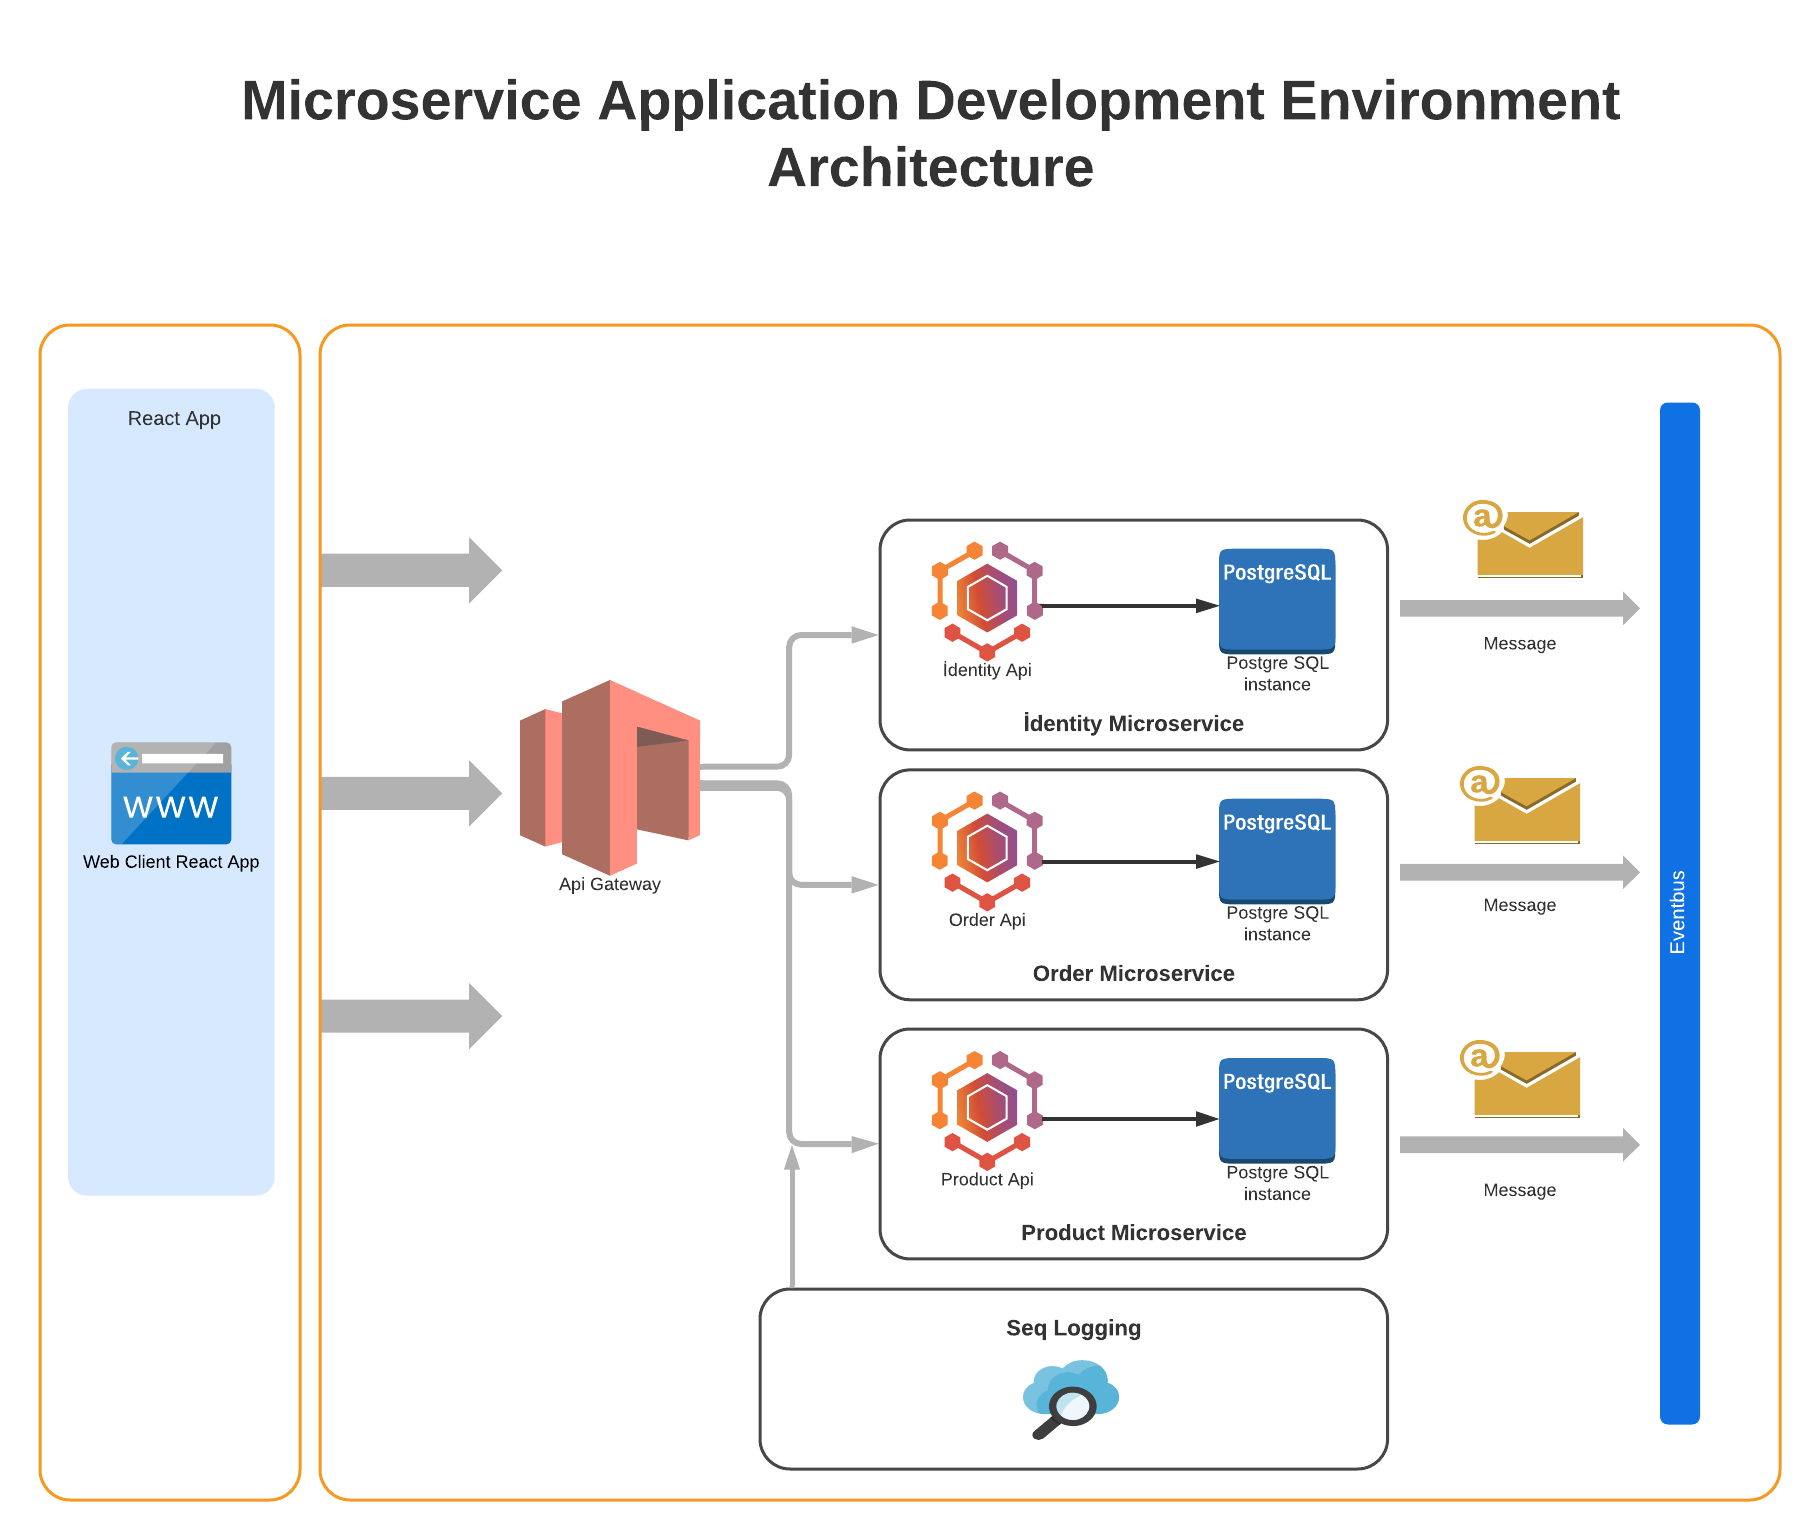
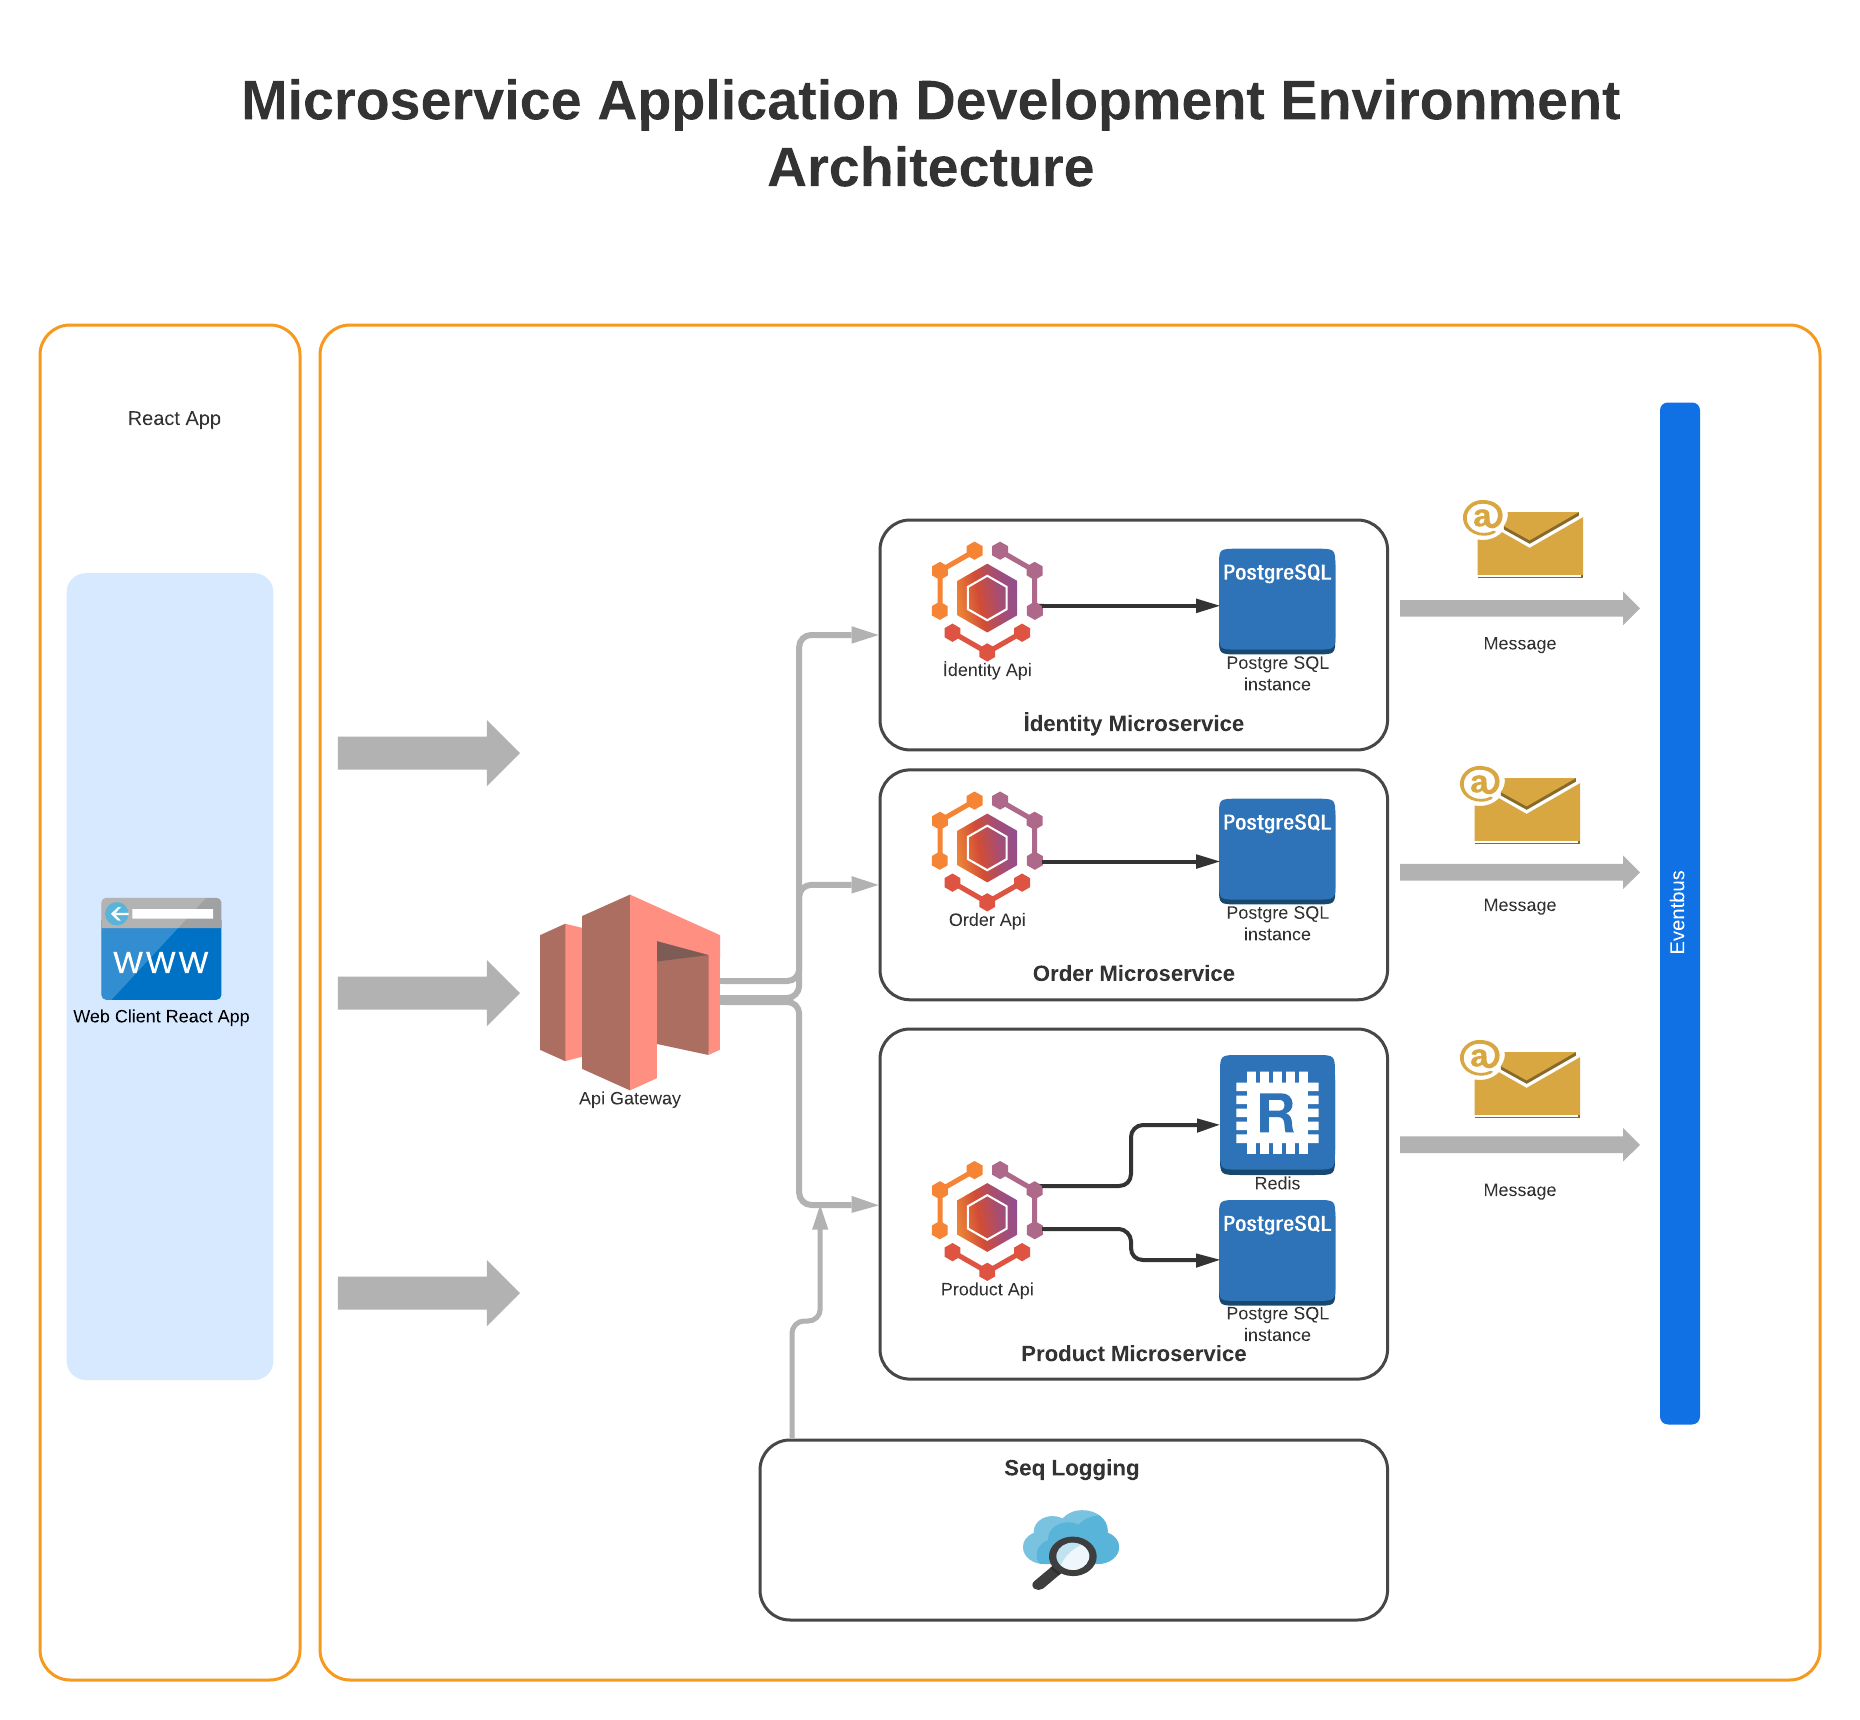
prdouct list redis cache support :label:

Changed region(s): [[0.0308, 0.187, 0.9846, 0.9974], [0.1231, 0.0312, 0.8923, 0.1247], [0.0308, 0.9662, 0.1538, 0.9974]]

diff --git a/client/src/configs/origins.js b/client/src/configs/origins.js
@@ -1,4 +1,4 @@
 export const getOrigin = () => window.location.origin;
 
-export const getServiceOrigin = () => `http://${process.env.REACT_APP_HOSTLOCAL}`
+export const getServiceOrigin = () => 'http://localhost:5200'
 

diff --git a/client/src/index.js b/client/src/index.js
@@ -16,6 +16,7 @@ import Order from "./pages/order/Order";
 import "antd/dist/antd.css";
 
 function App() {
+  console.log(process.env.REACT_APP_HOSTLOCAL)
   return (
     <AuthProvider>
       <BasketProvider>

diff --git a/services/product/Product.Api/Application/IntegrationEvents/EventHandlers/RemoveProductStockIntegrationEventHandler.cs b/services/product/Product.Api/Application/IntegrationEvents/EventHandlers/RemoveProductStockIntegrationEventHandler.cs
@@ -4,9 +4,13 @@ using Product.Api.Application.Hubs;
 using Product.Api.Application.IntegrationEvents.Events;
 using Product.Api.Domain.Exceptions;
 using System;
+using System.Collections.Generic;
+using System.Linq;
 using System.Threading.Tasks;
+using Microsoft.Extensions.Caching.Distributed;
+using Product.Api.Application.Queries;
+using Zero.Core.Extensions;
 using Zero.Core.Repositories;
-using Zero.Core.Sessions;
 using Zero.Core.UnitOfWork;
 using Zero.EventBus.Abstractions;
 
@@ -20,13 +24,15 @@ namespace Product.Api.Application.IntegrationEvents.EventHandlers
         private readonly IHubContext<ProductHub, IProductHub> _productHub;
         private readonly IRepository<Domain.Product> _productRepository;
         private readonly IUnitOfWork _uow;
+        private readonly IDistributedCache _cache;
 
-        public RemoveProductStockIntegrationEventHandler(ILogger<RemoveProductStockIntegrationEventHandler> logger, ISession session, IHubContext<ProductHub, IProductHub> productHub, IRepository<Domain.Product> productRepository, IUnitOfWork uow)
+        public RemoveProductStockIntegrationEventHandler(ILogger<RemoveProductStockIntegrationEventHandler> logger, IHubContext<ProductHub, IProductHub> productHub, IRepository<Domain.Product> productRepository, IUnitOfWork uow, IDistributedCache cache)
         {
             _logger = logger ?? throw new ArgumentNullException(nameof(logger));
             _productHub = productHub ?? throw new ArgumentNullException(nameof(productHub));
             _productRepository = productRepository ?? throw new ArgumentNullException(nameof(productRepository));
-            _uow = uow ?? throw new ArgumentNullException(nameof(uow)); ;
+            _uow = uow ?? throw new ArgumentNullException(nameof(uow));
+            _cache = cache ?? throw new ArgumentNullException(nameof(cache));
         }
 
         #endregion
@@ -35,6 +41,8 @@ namespace Product.Api.Application.IntegrationEvents.EventHandlers
         {
             _logger.LogInformation("----- Handling integration event: {IntegrationEventId} at {AppName} - ({@IntegrationEvent})", @event.Id, Program.AppName, @event);
 
+            var products = await _cache.GetAsync<List<ProductModel>>(ProductCacheKey.Product);
+
             try
             {
                 foreach (var item in @event.OrderItems)
@@ -42,10 +50,12 @@ namespace Product.Api.Application.IntegrationEvents.EventHandlers
                     var product = await _productRepository.GetAsync(item.ProductId) ?? throw new ProductDomainException("product was not found");
                     product.RemoveStock(item.Quantity);
                     await _productRepository.UpdateAsync(product);
+                    var cacheProduct = products.FirstOrDefault(p => p.Id == product.Id);
+                    if (cacheProduct is not null) cacheProduct.AvailableStock = product.AvailableStock;
                 }
 
                 await _uow.SaveAsync();
-
+                await _cache.UpdateAsync(ProductCacheKey.Product, products);
                 await _productHub.Clients.Group(@event.UserId.ToString()).ProductStockChanged(@event.OrderItems);
             }
             catch (Exception ex)

diff --git a/lib/core/Zero.Core/Extensions/CacheExtensions.cs b/lib/core/Zero.Core/Extensions/CacheExtensions.cs
@@ -1,0 +1,55 @@
+using System;
+using System.Threading.Tasks;
+using Microsoft.Extensions.Caching.Distributed;
+using Newtonsoft.Json;
+
+namespace Zero.Core.Extensions
+{
+    public static class CacheExtensions
+    {
+        public static TModel Get<TModel>(this IDistributedCache cache, string key)
+        {
+            var data = cache.GetString(key);
+            return data != null ? JsonConvert.DeserializeObject<TModel>(data) : default;
+        }
+        public static async Task<TModel> GetAsync<TModel>(this IDistributedCache cache, string key)
+        {
+            var data = await cache.GetStringAsync(key);
+            return data != null ? JsonConvert.DeserializeObject<TModel>(data) : default;
+        }
+        // ReSharper disable once MethodOverloadWithOptionalParameter
+        public static async Task<T> GetAsync<T>(this IDistributedCache cache, string key, Func<Task<T>> action = null, int timeOut = 60)
+        {
+            try
+            {
+                var cacheResult = await cache.GetAsync<T>(key);
+                if (cacheResult != null)
+                    return cacheResult;
+
+                if (action == null)
+                    return default(T);
+                var result = await action.Invoke();
+                if (result != null)
+                    await cache.SetStringAsync(key, JsonConvert.SerializeObject(result));
+                return result;
+            }
+            catch (Exception)
+            {
+                // ignored
+            }
+
+            return default(T);
+        }
+
+        public static async Task UpdateAsync<TModel>(this IDistributedCache cache, string key, TModel model)
+        {
+            var cacheResult = cache.Get<TModel>(key);
+            if (cacheResult != null)
+            {
+                await cache.RemoveAsync(key);
+                await cache.SetStringAsync(key, JsonConvert.SerializeObject(model));
+            }
+        }
+
+    }
+}

diff --git a/services/product/Product.Api/Application/Queries/ProductQuery.cs b/services/product/Product.Api/Application/Queries/ProductQuery.cs
@@ -3,6 +3,8 @@ using System.Collections.Generic;
 using System.Linq;
 using System.Threading.Tasks;
 using Microsoft.EntityFrameworkCore;
+using Microsoft.Extensions.Caching.Distributed;
+using Zero.Core.Extensions;
 using Zero.Core.Repositories;
 
 namespace Product.Api.Application.Queries
@@ -10,10 +12,12 @@ namespace Product.Api.Application.Queries
     public class ProductQuery : IProductQuery
     {
         private readonly IRepository<Domain.Product> _productRepository;
+        private readonly IDistributedCache _cache;
 
-        public ProductQuery(IRepository<Domain.Product> productRepository)
+        public ProductQuery(IRepository<Domain.Product> productRepository, IDistributedCache cache)
         {
             _productRepository = productRepository ?? throw new ArgumentNullException(nameof(productRepository));
+            _cache = cache ?? throw new ArgumentNullException(nameof(cache)); 
         }
 
         public async Task<ProductModel> GetProductAsync(int id)
@@ -27,9 +31,12 @@ namespace Product.Api.Application.Queries
 
         public async Task<IEnumerable<ProductModel>> GetProductsAsync()
         {
-            var products = await _productRepository.Queryable().Include(x => x.ProductType).OrderByDescending(x => x.Id).ToListAsync();
+            return await _cache.GetAsync(ProductCacheKey.Product, async () =>
+            {
+                var products = await _productRepository.Queryable().Include(x => x.ProductType).OrderByDescending(x => x.Id).ToListAsync();
+                return products.Select(MapToProductModel);
+            });
 
-            return products.Select(MapToProductModel);
         }
 
         private ProductModel MapToProductModel(Domain.Product product)

diff --git a/services/product/Product.Api/Startup.cs b/services/product/Product.Api/Startup.cs
@@ -13,6 +13,7 @@ using System;
 using System.IO.Compression;
 using Product.Api.Application.Hubs;
 using Product.Api.Web.Extensions;
+using StackExchange.Redis;
 using Zero.Eventbus.RabbitMQ;
 using Zero.Eventlog;
 
@@ -49,8 +50,17 @@ namespace Product.Api
                 .AddCustomAuthentications(Configuration)
                 .AddData(Configuration)
                 .AddStart()
-                .AddEventLog(Configuration, "Product.Api")
-                .AddSignalR(o => o.EnableDetailedErrors = true);
+                .AddEventLog(Configuration, "Product.Api");
+
+            services.AddSignalR(o => o.EnableDetailedErrors = true).AddStackExchangeRedis(x =>
+            {
+                x.Configuration.EndPoints.Add(Configuration["RedisHost"], 6379);
+            });
+
+            services.AddStackExchangeRedisCache(options =>
+            {
+                options.Configuration = Configuration["RedisHost"];
+            });
 
             services.Configure<GzipCompressionProviderOptions>(options =>
             {

diff --git a/services/order/Order.Api/Program.cs b/services/order/Order.Api/Program.cs
@@ -4,14 +4,14 @@ using Microsoft.AspNetCore.Server.Kestrel.Core;
 using Microsoft.Extensions.Configuration;
 using Microsoft.Extensions.Logging;
 using Order.Api;
+using Order.Api.Infrastructure;
+using Order.Api.Web.Extensions;
 using Serilog;
 using System;
 using System.IO;
 using System.Net;
 using System.Text.Json;
-using Autofac.Extensions.DependencyInjection;
-using Order.Api.Infrastructure;
-using Order.Api.Web.Extensions;
+using Zero.Eventlog;
 
 var configuration = GetConfiguration();
 
@@ -24,7 +24,8 @@ try
     var host = CreateHostBuilder(args);
 
     Log.Information("Applying migrations ({ApplicationContext})...", Program.AppName);
-    host.MigrateDbContext<OrderDbContext>((_, _) => { });
+    host.MigrateDbContext<OrderDbContext>((_, _) => { })
+        .MigrateDbContext<EventLogContext>((_, _) => { });
 
     Log.Information("Starting web host ({ApplicationContext})...", Program.AppName);
 

diff --git a/services/product/Product.Api/Program.cs b/services/product/Product.Api/Program.cs
@@ -12,6 +12,7 @@ using Product.Api.Infrastructure;
 using Product.Api.Infrastructure.Seed;
 using Product.Api.Web.Extensions;
 using Serilog;
+using Zero.Eventlog;
 
 var configuration = GetConfiguration();
 
@@ -29,7 +30,7 @@ try
         new ProductDbContextSeed()
             .SeedAsync(context, configuration)
             .Wait();
-    });
+    }).MigrateDbContext<EventLogContext>((_, _) => { });
 
     Log.Information("Starting web host ({ApplicationContext})...", Program.AppName);
 

diff --git a/services/product/Product.Api/Application/Queries/ProductCacheKey.cs b/services/product/Product.Api/Application/Queries/ProductCacheKey.cs
@@ -1,0 +1,7 @@
+namespace Product.Api.Application.Queries
+{
+    public class ProductCacheKey
+    {
+        public const string Product = "Eshop:Products";
+    }
+}

diff --git a/README.md b/README.md
@@ -9,8 +9,7 @@ Sample .NET 5 reference application, based on a simplified microservices archite
 Make sure you have install and configured docker in your environment. After that, you can run the below commands from the **/** directory and get started with the `eShopZero` immediately.
 
 ```powershell
-docker-compose build
-docker-compose up
+docker-compose up --build
 ```
 
 You should be able to browse different components of the application by using the below URLs :
@@ -37,17 +36,18 @@ The user adds their products to the basket during shopping and creates an order.
 |  rabbitmq:3-management-alpine | 15672  | localhost  |
 |  datalust/seq:latest | 5340  | localhost  |
 |  postgres:latest | 5432  | localhost  |
+|  redis:alpine | 6379  | localhost  |
 
 ## Architecture Overview
 
 ![](img/microservice-architecture.png)
-
 
 ## Tech Stack
 
 - .Net 5
 - RabbitMQ
 - Serilog & Seq 
+- Redis
 - Event Source
 - CQRS && DDD
 - ReactJS
@@ -55,3 +55,4 @@ The user adds their products to the basket during shopping and creates an order.
 - Docker
 - Ocelot
 - PostgreSQL
+- Entity Framework Core
